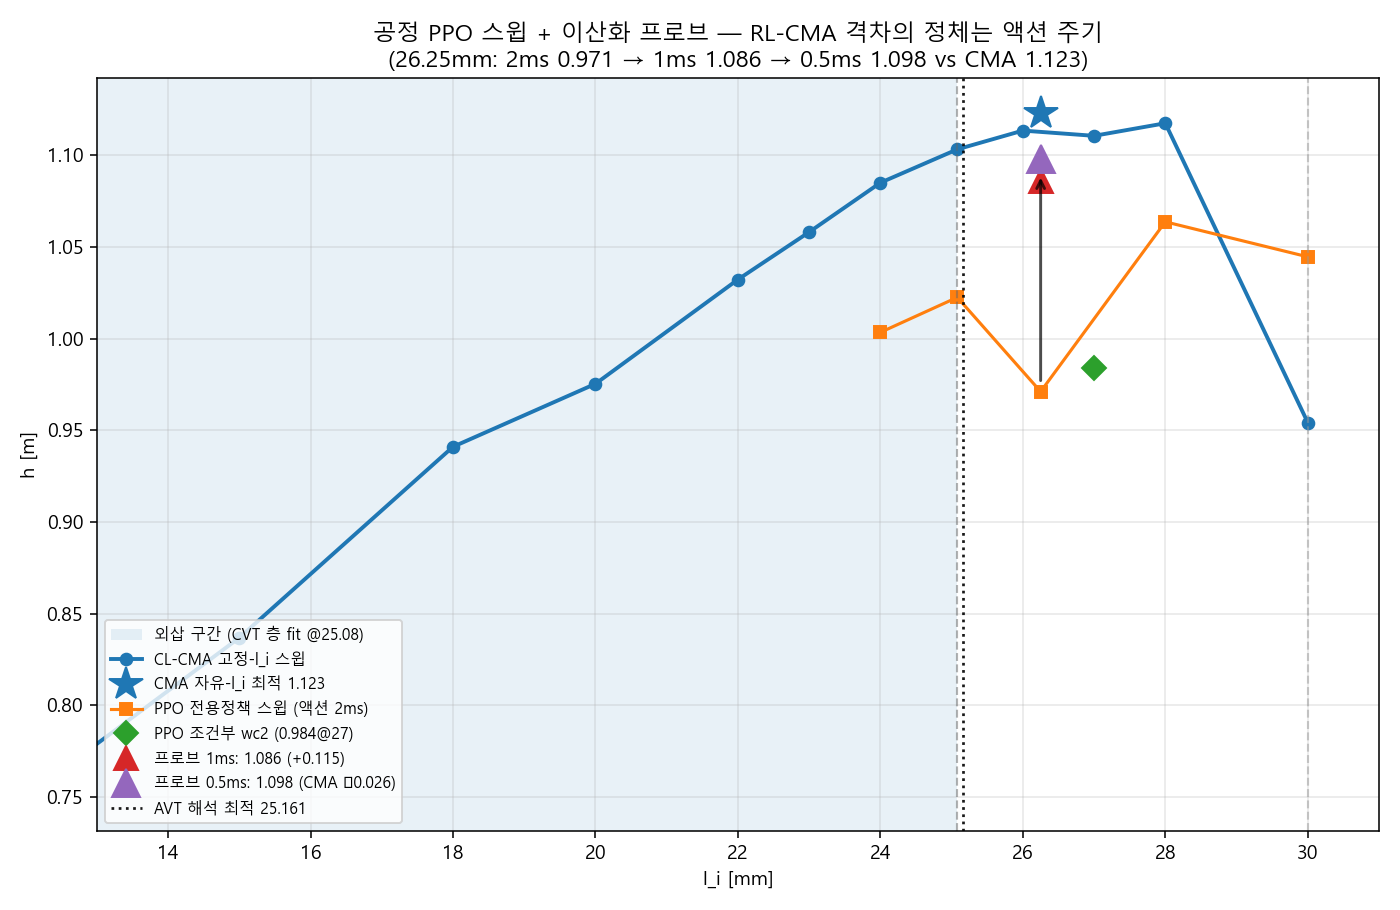
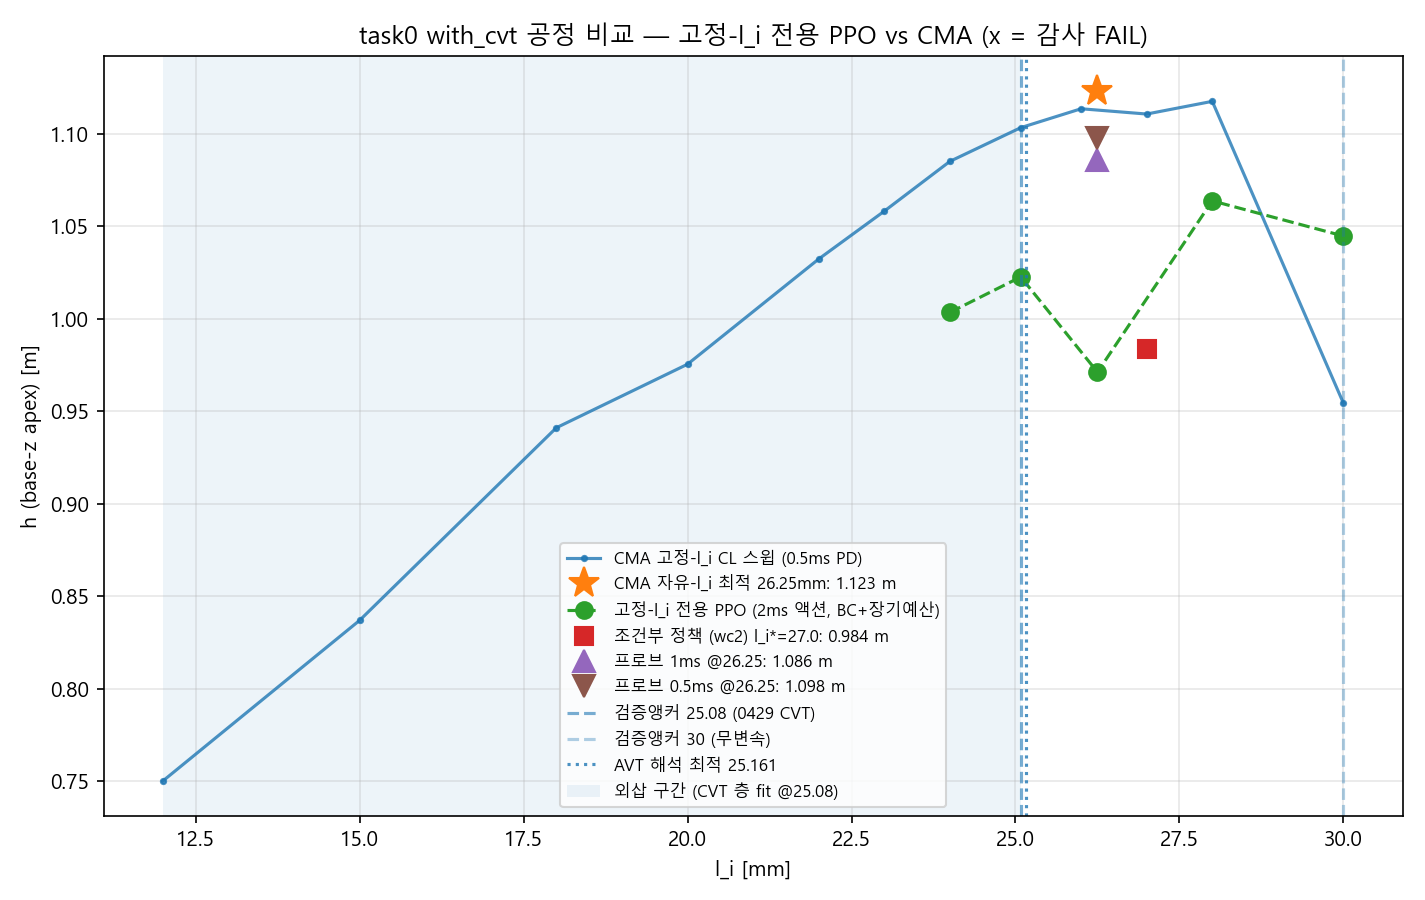
0.5ms 전면 스윕 패키징 (t0_05ms_sweep.bat: nc+CVT 4점, 교사 0.5ms 재생 검증, 스모크 버그 3건 수정) + fair_sweep 그림 재생성
Claude-Session: https://claude.ai/code/session_018tXRZDWy9RG1Z1qWD21UNo

diff --git a/code/goal22/p25_task0/t0_05ms_sweep.py b/code/goal22/p25_task0/t0_05ms_sweep.py
@@ -1,0 +1,162 @@
+# -*- coding: utf-8 -*-
+"""t0_05ms_sweep — 0.5ms 액션 주기 PPO 전면 비교 드라이버 (사용자 확정 07-19).
+
+런 4개 (26.25@0.5ms는 프로브 기확보 1.0978 — 스킵):
+  fix:24:0.5 / fix:25.08:0.5 / fix:28:0.5 (CVT, 자기 점 CMA 교사 0.5ms 재샘플 BC)
+  nc05 (no_cvt 플랜트 @0.5ms, 교사 t0nc_cl.npz — 감사 cvt=False 규약은 t0nc_rollout이 담당)
+레시피 = 0.5ms 프로브판 그대로 (96M cap sim-time 등가, patience 120, 플로어 std≥0.25
+@예산40%, 128넷, T0_RESUME ckpt 재개, 점별 subprocess 격리).
+교사 0.5ms 재생 검증 (07-19): 24=1.0705 / 25.08=1.0826 / 28=1.0938 / nc30=0.9818 완주.
+최종 그림: graphs/summary/li_ppo_05ms.png (2ms vs 0.5ms vs CMA + no_cvt(30) 짝 강조)
+— 그림 단계는 json 표준 모듈만 사용 (safe/bench 의존 제거 — 프로브 체인 사인 재발 방지).
+"""
+import json
+import os
+import subprocess
+import sys
+import time
+from pathlib import Path
+
+HERE = Path(__file__).parent
+sys.path.insert(0, str(HERE))
+sys.path.insert(0, str(HERE.parent.parent / "bench"))   # 하위 스크립트 안전망
+import t0_train_long as TL
+
+POINTS = ["fix:24:0.5", "fix:25.08:0.5", "fix:28:0.5", "nc05"]
+LI_2MS = [("24", 24.0), ("25p08", 25.08), ("26p25", 26.25), ("28", 28.0), ("30", 30.0)]
+LI_05MS = [("24", 24.0), ("25p08", 25.08), ("26p25", 26.25), ("28", 28.0)]
+
+
+def names_of(camp):
+    if camp == "nc05":
+        return "t0nc", "_long_05ms"
+    _, _, tag = TL.parse_fix(camp)
+    return "t0wc", tag
+
+
+def run_point(camp):
+    prefix, tag = names_of(camp)
+    aud = HERE / f"{prefix}_ppo_audit{tag}.json"
+    env = dict(os.environ, PYTHONIOENCODING="utf-8")
+    if (HERE / f"{prefix}_ppo_policy{tag}.pt").exists() and not aud.exists():
+        env["T0_RESUME"] = "1"     # 외부 킬 잔존 ckpt → 잔여 예산 재개
+        print(f"[chain] {camp}: 기존 ckpt 발견 — T0_RESUME=1", flush=True)
+    for script in ("t0_train_long.py", "t0_rollout_long.py"):
+        print(f"===== {script} {camp} =====", flush=True)
+        r = subprocess.run([sys.executable, str(HERE / script), camp],
+                           cwd=str(HERE), env=env)
+        if r.returncode != 0:
+            raise RuntimeError(f"{script} {camp} 실패 (rc={r.returncode})")
+    assert aud.exists(), f"수확물 없음: {aud.name}"
+
+
+def _jload(name):
+    f = HERE / name
+    if not f.exists():
+        return None
+    return json.load(open(f, encoding="utf-8"))
+
+
+def _nc_point(name):
+    """nc 감사 json → (h, pass) — best ckpt 우선 (통과 시)."""
+    d = _jload(name)
+    if d is None:
+        return None
+    if d.get("pass_best"):
+        return float(d["h_plan_best_ckpt"]), True
+    return float(d["h_plan"]), bool(d.get("pass_final"))
+
+
+def make_figure():
+    import matplotlib
+    matplotlib.use("Agg")
+    import matplotlib.pyplot as plt
+    plt.rcParams["font.family"] = "Malgun Gothic"
+    plt.rcParams["axes.unicode_minus"] = False
+    fig, ax = plt.subplots(figsize=(9.5, 6))
+    # CMA 스윕 곡선 (0.5ms PD CL 기준)
+    sw = _jload("t0wc_li_sweep.json")["rows"]
+    lis = sorted(float(v["l_i_mm"]) for v in sw.values())
+    ax.plot(lis, [sw[f"{x:g}"]["h_plan"] for x in lis], marker=".", ms=5, alpha=0.8,
+            label="CMA 고정-l_i CL 스윕 (0.5ms PD)")
+    d = _jload("t0wc_cl_liopt_audit.json")
+    if d:
+        ax.plot([d["l_i_mm"]], [d["h_plan"]], marker="*", ms=15, linestyle="none",
+                label=f"CMA 자유-l_i 최적 {d['l_i_mm']:.2f}mm: {d['h_plan']:.3f} m")
+    # 고정-l_i PPO 곡선 — 2ms / 0.5ms
+    for suf, pts, lab, ls in (("_long", LI_2MS, "고정-l_i PPO (2ms 액션)", "--"),
+                              ("_long_05ms", LI_05MS, "고정-l_i PPO (0.5ms 액션)", "-")):
+        xs, ys, bad = [], [], []
+        for li_s, li in pts:
+            d = _jload(f"t0wc_ppo_audit_lifix{li_s}{suf}.json")
+            if d is None:
+                continue
+            xs.append(li); ys.append(d["h_plan"])
+            if not d["pass_all"]:
+                bad.append((li, d["h_plan"]))
+        if xs:
+            line, = ax.plot(xs, ys, marker="o", ms=8, linestyle=ls, label=lab)
+            if bad:
+                ax.plot([b[0] for b in bad], [b[1] for b in bad], linestyle="none",
+                        marker="x", ms=11, color=line.get_color())
+    # no_cvt(30) 짝 강조 — 플립 플랜트, Q2 바운드 감사 (cvt=False)
+    nc2 = _nc_point("t0nc_ppo_audit_long.json")
+    nc5 = _nc_point("t0nc_ppo_audit_long_05ms.json")
+    for pt, lab, mk in ((nc2, "no_cvt PPO 2ms", "s"), (nc5, "no_cvt PPO 0.5ms", "D")):
+        if pt:
+            ax.plot([30.0], [pt[0]], marker=mk, ms=10, linestyle="none",
+                    label=f"{lab}: {pt[0]:.3f} m" + ("" if pt[1] else " (감사 FAIL)"))
+    if nc2 and nc5:
+        ax.annotate("", xy=(30.0, nc5[0]), xytext=(30.0, nc2[0]),
+                    arrowprops=dict(arrowstyle="->", alpha=0.6))
+    ax.axvline(25.08, linestyle="--", alpha=0.6, label="검증앵커 25.08 (0429 CVT)")
+    ax.axvline(30.0, linestyle="--", alpha=0.35, label="검증앵커 30 (무변속)")
+    ax.axvspan(float(min(lis)), 25.08, alpha=0.08, label="외삽 구간 (CVT fit @25.08)")
+    ax.set_xlabel("l_i [mm]")
+    ax.set_ylabel("h (base-z apex) [m]")
+    ax.set_title("task0 — 액션 주기 비교: PPO 2ms vs 0.5ms vs CMA (x = 감사 FAIL)")
+    ax.grid(alpha=0.3)
+    ax.legend(fontsize=8, loc="lower center")
+    out = HERE / "graphs" / "summary" / "li_ppo_05ms.png"
+    out.parent.mkdir(parents=True, exist_ok=True)
+    fig.tight_layout()
+    fig.savefig(out, dpi=150)
+    plt.close(fig)
+    print(f"figure saved: {out}", flush=True)
+
+
+def main():
+    t0 = time.time()
+    args = sys.argv[1:]
+    failures = []
+    if "--fig-only" not in args:
+        for camp in POINTS:
+            prefix, tag = names_of(camp)
+            if "--fresh" not in args and (HERE / f"{prefix}_ppo_audit{tag}.json").exists():
+                print(f"skip (수확 있음): {camp}", flush=True)
+                continue
+            try:                       # 점 격리 — 한 점이 죽어도 체인 지속
+                run_point(camp)
+            except Exception as e:
+                failures.append((camp, str(e)))
+                print(f"[chain] {camp} 실패 — 다음 점 계속: {e}", flush=True)
+    for camp in POINTS:
+        prefix, tag = names_of(camp)
+        d = _jload(f"{prefix}_ppo_audit{tag}.json")
+        if d is None:
+            print(f"{camp:16s} MISSING", flush=True)
+        elif prefix == "t0nc":
+            h, ok = _nc_point(f"{prefix}_ppo_audit{tag}.json")
+            print(f"{camp:16s} h={h:.4f} pass={ok} steps={d.get('training', {}).get('steps')}",
+                  flush=True)
+        else:
+            print(f"{camp:16s} h={d['h_plan']:.4f} pass={d['pass_all']} "
+                  f"steps={d.get('training', {}).get('steps')}", flush=True)
+    make_figure()
+    if failures:
+        print(f"FAILURES: {failures}", flush=True)
+    print(f"DONE [{(time.time() - t0) / 60:.1f} min]", flush=True)
+
+
+if __name__ == "__main__":
+    main()

diff --git a/code/goal22/p25_task0/t0nc_rollout.py b/code/goal22/p25_task0/t0nc_rollout.py
@@ -70,7 +70,7 @@ def det_rollout(env, ac, record=True):
         q1c, q2c, _, _ = env._read()
         if not (G["Q1R"][0] <= q1c <= G["Q1R"][1]) or \
            not (G["Q2R"][0] <= q2c <= G["Q2R"][1]):
-            range_viol = dict(k_ctrl=kc, t=float((kc + 1) * EV.CTRL_DT),
+            range_viol = dict(k_ctrl=kc, t=float((kc + 1) * env.ctrl_dt),
                               q1=float(q1c), q2=float(q2c))
             break
     # ── 수동 연장 (a_full23 기록 끝 이후 규약: s=0, 무릎 extra=LAW_A, 힙 e1=a1) ──
@@ -143,11 +143,13 @@ def main():
     ck_clip = ck.get("hyper", {}).get("clip_raw", None)
     assert ck_clip is not None and abs(ck_clip - float(EV.R19.CLIP)) < 1e-9, \
         f"클립 불일치: 체크포인트 {ck_clip} vs 현재 env {EV.R19.CLIP} (P25_CLIP_RAW 확인)"
-    env = JumpEnv(seed=12345, reset_noise=False)
+    cdt = float(os.environ.get("T0_CTRL_DT_MS", "2")) / 1000.0   # 0.5ms 수확용
+    env = JumpEnv(seed=12345, reset_noise=False, ctrl_dt=cdt)
     n_act = env.n_ep * env.nsub
     out = {}
+    hid = int(ck.get("hyper", {}).get("hid", 64))   # nc05(128) 등 넷 크기 호환
     for tag in ("final", "best"):
-        ac = TR.ActorCritic()
+        ac = TR.ActorCritic(hid=hid)
         ac.load_state_dict(ck[tag] if ck[tag] is not None else ck["final"])
         ac.eval()
         Lg, k_rec, rv, contact = det_rollout(env, ac)
@@ -234,7 +236,7 @@ def main():
                       n_evals=len(tlog.get("evals", []))),
         hyper=tlog.get("hyper"),
         golden=golden,
-        env=dict(ctrl_dt=EV.CTRL_DT, ep_t=EV.EP_T, sim_dt=env.dt,
+        env=dict(ctrl_dt=env.ctrl_dt, ep_t=EV.EP_T, sim_dt=env.dt,
                  crouch=list(G["CROUCH"]), crouch_sub=G["CROUCH_SUB"],
                  q1_range=[float(x) for x in G["Q1R"]],
                  q2_range=[float(x) for x in G["Q2R"]],

diff --git a/code/goal22/p25_task0/t0nc_env.py b/code/goal22/p25_task0/t0nc_env.py
@@ -133,15 +133,18 @@ class JumpEnv:
     OBS_DIM = 7
     ACT_DIM = 2
 
-    def __init__(self, seed=0, reset_noise=True):
+    def __init__(self, seed=0, reset_noise=True, ctrl_dt=None):
         setup()
         self.mj = G["mj"]
         self.model = G["model"]           # 공유 (읽기 전용) — MjData만 개별
         self.md = self.mj.MjData(self.model)
         self.dt = float(self.model.opt.timestep)
-        self.nsub = int(round(CTRL_DT / self.dt))
-        assert abs(self.nsub * self.dt - CTRL_DT) < 1e-12, "CTRL_DT가 트윈 dt 배수 아님"
-        self.n_ep = int(round(EP_T / CTRL_DT))
+        # ctrl_dt: 액션 주기 [s] (기본 2ms) — 0.5ms 전면 비교(07-19)용. 물리 dt 불변,
+        # 페널티 정규화 n_ep·nsub = EP_T/dt 는 ctrl_dt 불변.
+        self.ctrl_dt = float(ctrl_dt) if ctrl_dt else CTRL_DT
+        self.nsub = int(round(self.ctrl_dt / self.dt))
+        assert abs(self.nsub * self.dt - self.ctrl_dt) < 1e-12, "ctrl_dt가 트윈 dt 배수 아님"
+        self.n_ep = int(round(EP_T / self.ctrl_dt))
         self.dof_knee = safe.dofadr(self.model, "knee", self.mj)
         self.iq_k = safe.qadr(self.model, "knee", self.mj)
         self.fg = self.mj.mj_name2id(self.model, self.mj.mjtObj.mjOBJ_GEOM, "foot")

diff --git a/code/goal22/p25_task0/t0_rollout_long.py b/code/goal22/p25_task0/t0_rollout_long.py
@@ -15,20 +15,23 @@ import sys
 import t0_train_long as TL
 
 camp = sys.argv[1] if len(sys.argv) > 1 else "nc"
-assert camp in ("nc", "wc", "wc2") or camp.startswith("fix:"), \
-    "usage: python t0_rollout_long.py nc|wc|wc2|fix:<li>[:<ctrl_ms>]"
+assert camp in ("nc", "nc05", "wc", "wc2") or camp.startswith("fix:"), \
+    "usage: python t0_rollout_long.py nc|nc05|wc|wc2|fix:<li>[:<ctrl_ms>]"
 if camp.startswith("fix:"):
     li, cdt, tag = TL.parse_fix(camp)
     os.environ["T0_TAG"] = tag
     os.environ["T0_LI_FIXED"] = repr(li)
     os.environ["T0_CTRL_DT_MS"] = repr(cdt * 1000.0)
+elif camp == "nc05":
+    os.environ["T0_TAG"] = "_long_05ms"
+    os.environ["T0_CTRL_DT_MS"] = "0.5"
 else:
     os.environ["T0_TAG"] = "_long2" if camp == "wc2" else "_long"
 
 
 def main(campaign):
     TL.load_env_module(campaign)     # env import + crouch 패치 (롤아웃 전 필수)
-    if campaign == "nc":
+    if campaign in ("nc", "nc05"):
         import t0nc_rollout as RO
     else:
         import t0wc_rollout as RO

diff --git a/code/goal22/p25_task0/t0_fix_sweep.py b/code/goal22/p25_task0/t0_fix_sweep.py
@@ -19,6 +19,7 @@ from pathlib import Path
 
 HERE = Path(__file__).parent
 sys.path.insert(0, str(HERE))
+sys.path.insert(0, str(HERE.parent.parent / "bench"))   # safe (그림 단계 — 07-19 픽스)
 import t0_train_long as TL   # parse_fix 재사용 (부작용 없음)
 
 POINTS = ["fix:24", "fix:25.08", "fix:26.25", "fix:28", "fix:30"]
